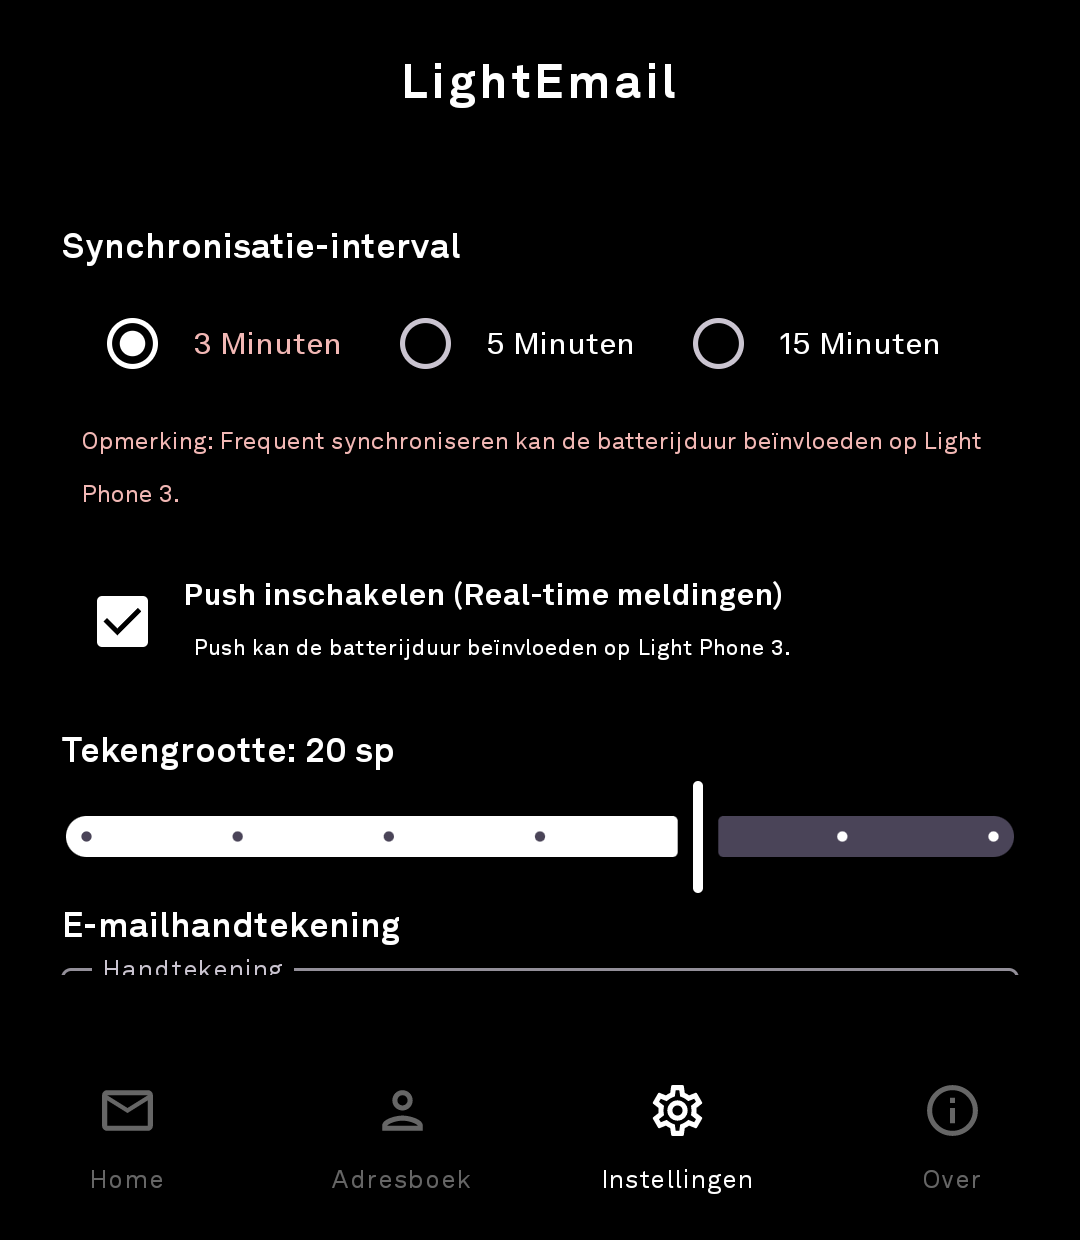
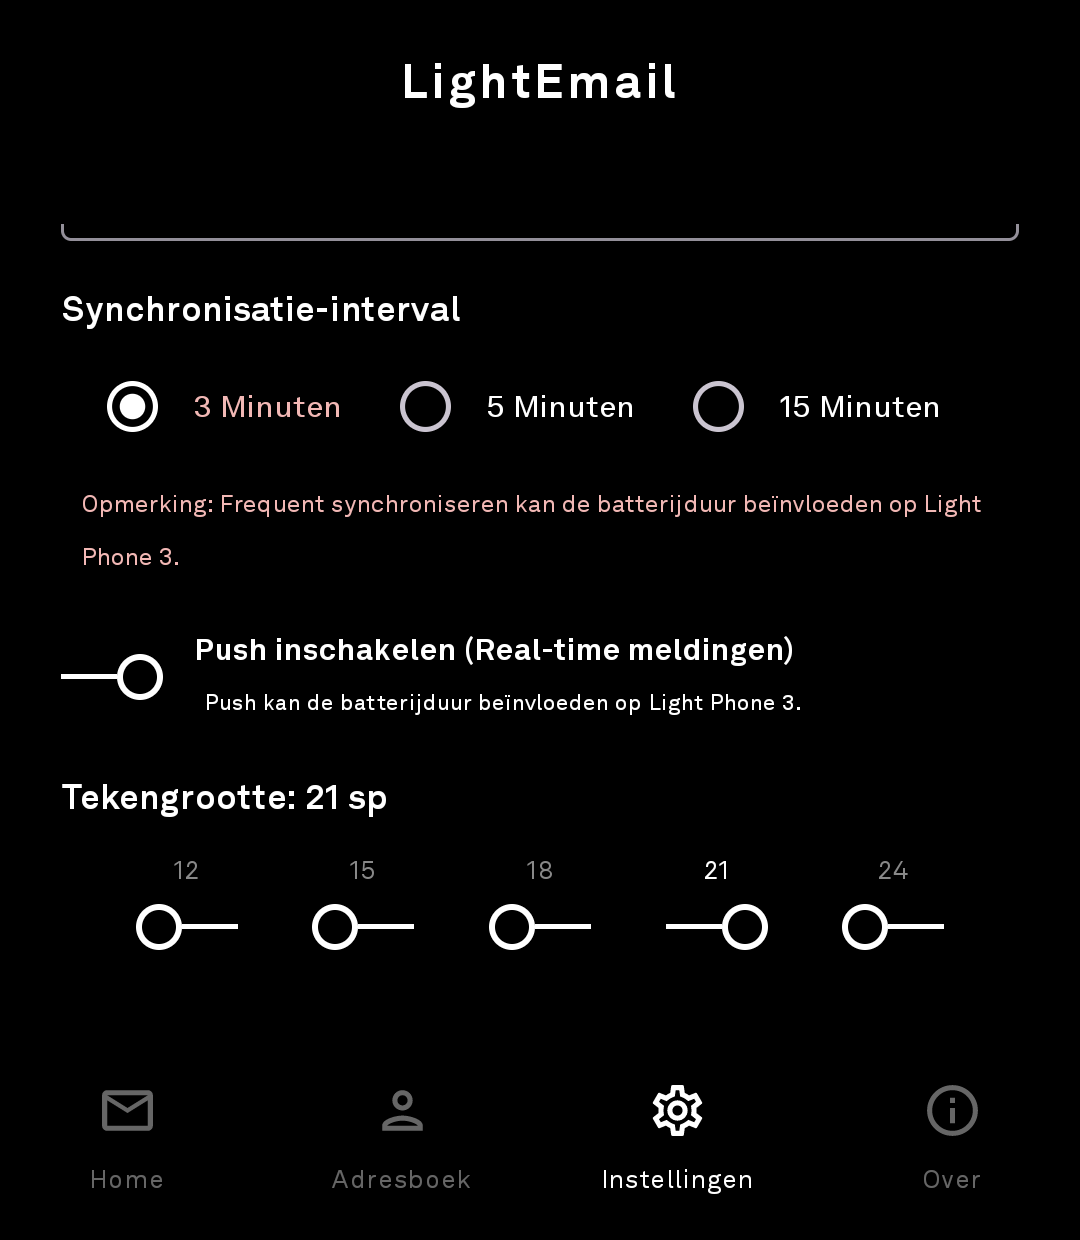
Bug fixes syncronistation and push notifications

Changed region(s): [[0.0611, 0.3984, 0.9472, 0.7968], [0.0611, 0.2452, 0.9167, 0.3677], [0.0611, 0.1839, 0.4278, 0.2145]]

diff --git a/app/src/main/java/com/light/lightemail/ui/screens/MainScreen.kt b/app/src/main/java/com/light/lightemail/ui/screens/MainScreen.kt
@@ -7,6 +7,7 @@ import android.webkit.WebViewClient
 import android.widget.Toast
 import androidx.compose.foundation.Image
 import androidx.compose.foundation.background
+import androidx.compose.foundation.border
 import androidx.compose.foundation.clickable
 import androidx.compose.foundation.isSystemInDarkTheme
 import androidx.compose.foundation.layout.*
@@ -784,7 +785,8 @@ fun SettingsScreen(viewModel: EmailViewModel) {
 
         Spacer(modifier = Modifier.height(8.dp))
         Row(verticalAlignment = Alignment.CenterVertically, modifier = Modifier.fillMaxWidth().clickable { enablePush = !enablePush }) {
-            Checkbox(checked = enablePush, onCheckedChange = { enablePush = it })
+            LightSwitch(checked = enablePush, onCheckedChange = { enablePush = it })
+            Spacer(modifier = Modifier.width(12.dp))
             Column {
                 Text(stringResource(R.string.enable_push_label), fontWeight = FontWeight.SemiBold, fontSize = 14.sp)
                 Text(
@@ -798,7 +800,20 @@ fun SettingsScreen(viewModel: EmailViewModel) {
 
         Spacer(modifier = Modifier.height(16.dp))
         Text(stringResource(R.string.text_size_label, textSize.toInt()), fontWeight = FontWeight.Bold)
-        Slider(value = textSize, onValueChange = { textSize = it }, valueRange = 12f..24f, steps = 5)
+        Row(
+            modifier = Modifier.fillMaxWidth().padding(vertical = 8.dp),
+            horizontalArrangement = Arrangement.SpaceEvenly
+        ) {
+            listOf(12f, 15f, 18f, 21f, 24f).forEach { size ->
+                Column(horizontalAlignment = Alignment.CenterHorizontally) {
+                    Text("${size.toInt()}", fontSize = 12.sp, color = if (textSize == size) Color.White else Color.Gray)
+                    LightSwitch(
+                        checked = textSize == size,
+                        onCheckedChange = { if (it) textSize = size }
+                    )
+                }
+            }
+        }
 
         Text(stringResource(R.string.email_signature_title), fontWeight = FontWeight.Bold)
         OutlinedTextField(
@@ -845,5 +860,36 @@ fun AboutScreen() {
         )
         Spacer(modifier = Modifier.height(32.dp))
         Text(stringResource(R.string.copyright), fontSize = 14.sp)
+    }
+}
+
+@Composable
+fun LightSwitch(
+    checked: Boolean,
+    onCheckedChange: (Boolean) -> Unit,
+    modifier: Modifier = Modifier
+) {
+    Box(
+        modifier = modifier
+            .width(40.dp)
+            .height(24.dp)
+            .clickable { onCheckedChange(!checked) },
+        contentAlignment = Alignment.Center
+    ) {
+        // Track
+        Box(
+            modifier = Modifier
+                .fillMaxWidth()
+                .height(2.dp)
+                .background(Color.White)
+        )
+        // Thumb
+        Box(
+            modifier = Modifier
+                .align(if (checked) Alignment.CenterEnd else Alignment.CenterStart)
+                .size(18.dp)
+                .background(Color.Black)
+                .border(2.dp, Color.White, androidx.compose.foundation.shape.CircleShape)
+        )
     }
 }

diff --git a/app/src/main/java/com/light/lightemail/worker/SyncWorker.kt b/app/src/main/java/com/light/lightemail/worker/SyncWorker.kt
@@ -11,6 +11,7 @@ import androidx.work.WorkerParameters
 import com.light.lightemail.MainActivity
 import com.light.lightemail.R
 import com.light.lightemail.data.ImapManager
+import com.light.lightemail.data.SyncEvent
 
 class SyncWorker(context: Context, params: WorkerParameters) : CoroutineWorker(context, params) {
 
@@ -37,11 +38,24 @@ class SyncWorker(context: Context, params: WorkerParameters) : CoroutineWorker(c
             val lastSeenUid = prefs.getLong("last_seen_uid", -1L)
             
             if (latestEmail.uid > lastSeenUid) {
-                showNotification(latestEmail.sender, latestEmail.subject, latestEmail.uid)
-                // Use commit() instead of apply() to ensure UID is saved immediately in the worker
+                if (!latestEmail.isRead) {
+                    showNotification(latestEmail.sender, latestEmail.subject, latestEmail.uid)
+                }
+                // Update last_seen_uid even if read, so we don't process it again
                 prefs.edit().putLong("last_seen_uid", latestEmail.uid).commit()
+            } else if (latestEmail.uid < lastSeenUid || (latestEmail.uid == lastSeenUid && latestEmail.isRead)) {
+                // If the latest email is now older than what we last saw, 
+                // it means the one we notified for was likely deleted.
+                // Or if the latest is the same but now marked as read.
+                cancelNotification()
             }
+        } else {
+            // No emails in folder, clear any pending notification
+            cancelNotification()
         }
+
+        // Trigger UI refresh if app is in foreground
+        SyncEvent.trigger()
 
         // Reschedule if interval < 15 minutes and push is not enabled
         val syncInterval = prefs.getInt("sync_interval", 15)
@@ -114,5 +128,10 @@ class SyncWorker(context: Context, params: WorkerParameters) : CoroutineWorker(c
             .build()
 
         notificationManager.notify(1, notification)
+    }
+
+    private fun cancelNotification() {
+        val notificationManager = applicationContext.getSystemService(Context.NOTIFICATION_SERVICE) as NotificationManager
+        notificationManager.cancel(1)
     }
 }

diff --git a/app/src/main/java/com/light/lightemail/data/SyncEvent.kt b/app/src/main/java/com/light/lightemail/data/SyncEvent.kt
@@ -1,0 +1,14 @@
+package com.light.lightemail.data
+
+import kotlinx.coroutines.flow.MutableSharedFlow
+import kotlinx.coroutines.flow.SharedFlow
+import kotlinx.coroutines.flow.asSharedFlow
+
+object SyncEvent {
+    private val _events = MutableSharedFlow<Unit>(extraBufferCapacity = 1)
+    val events: SharedFlow<Unit> = _events.asSharedFlow()
+
+    fun trigger() {
+        _events.tryEmit(Unit)
+    }
+}

diff --git a/app/src/main/java/com/light/lightemail/ui/viewmodel/EmailViewModel.kt b/app/src/main/java/com/light/lightemail/ui/viewmodel/EmailViewModel.kt
@@ -11,10 +11,12 @@ import com.light.lightemail.data.AppDatabase
 import com.light.lightemail.data.Contact
 import com.light.lightemail.data.EmailMessage
 import com.light.lightemail.data.ImapManager
+import com.light.lightemail.data.SyncEvent
 import com.light.lightemail.worker.SyncWorker
 import kotlinx.coroutines.Dispatchers
 import kotlinx.coroutines.flow.MutableStateFlow
 import kotlinx.coroutines.flow.StateFlow
+import kotlinx.coroutines.flow.collectLatest
 import kotlinx.coroutines.launch
 import kotlinx.coroutines.withContext
 import java.util.concurrent.TimeUnit
@@ -74,6 +76,13 @@ class EmailViewModel(application: Application) : AndroidViewModel(application) {
             refreshFolders()
             scheduleSync(_syncInterval.value)
             updatePushService(_enablePush.value)
+        }
+
+        viewModelScope.launch {
+            SyncEvent.events.collectLatest {
+                refreshEmails()
+                refreshFolders()
+            }
         }
     }
 

diff --git a/app/src/main/java/com/light/lightemail/data/ImapManager.kt b/app/src/main/java/com/light/lightemail/data/ImapManager.kt
@@ -56,6 +56,9 @@ class ImapManager {
                 override fun messagesAdded(e: MessageCountEvent) {
                     onNewMessage()
                 }
+                override fun messagesRemoved(e: MessageCountEvent) {
+                    onNewMessage()
+                }
             })
 
             while (!Thread.interrupted() && store.isConnected) {
@@ -94,7 +97,7 @@ class ImapManager {
             val folder = store.getFolder(folderName)
             folder.open(Folder.READ_ONLY)
 
-            val messages = folder.messages
+            val messages = folder.search(FlagTerm(Flags(Flags.Flag.DELETED), false))
             val lastMessages = messages.takeLast(limit).toTypedArray()
             
             // Optimize fetching by using a FetchProfile